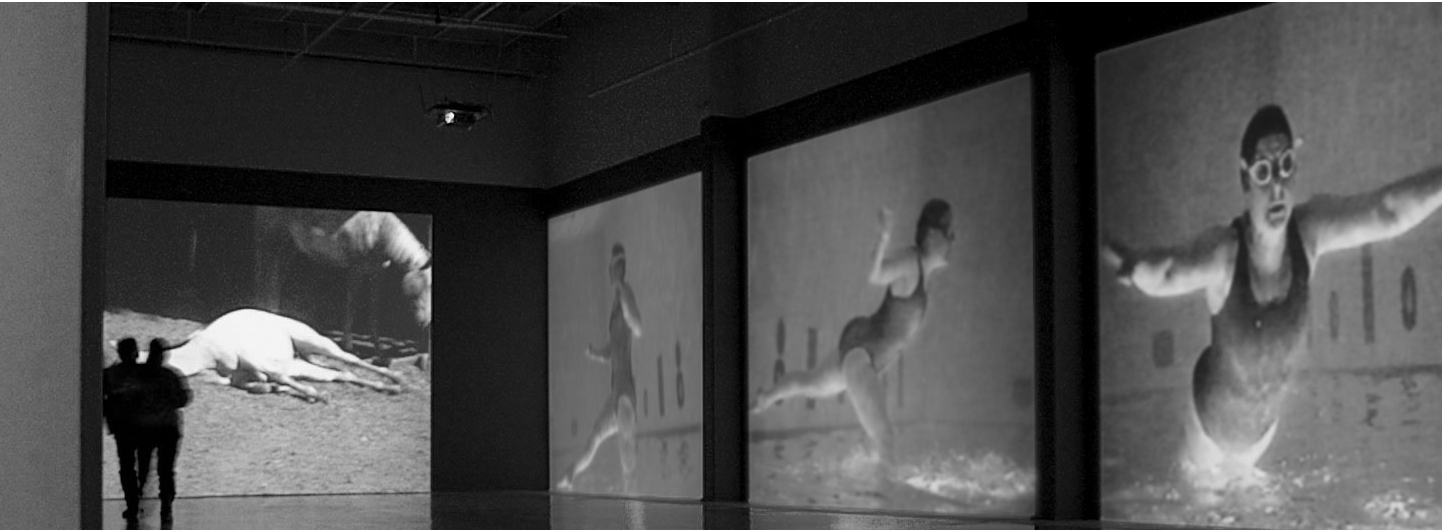
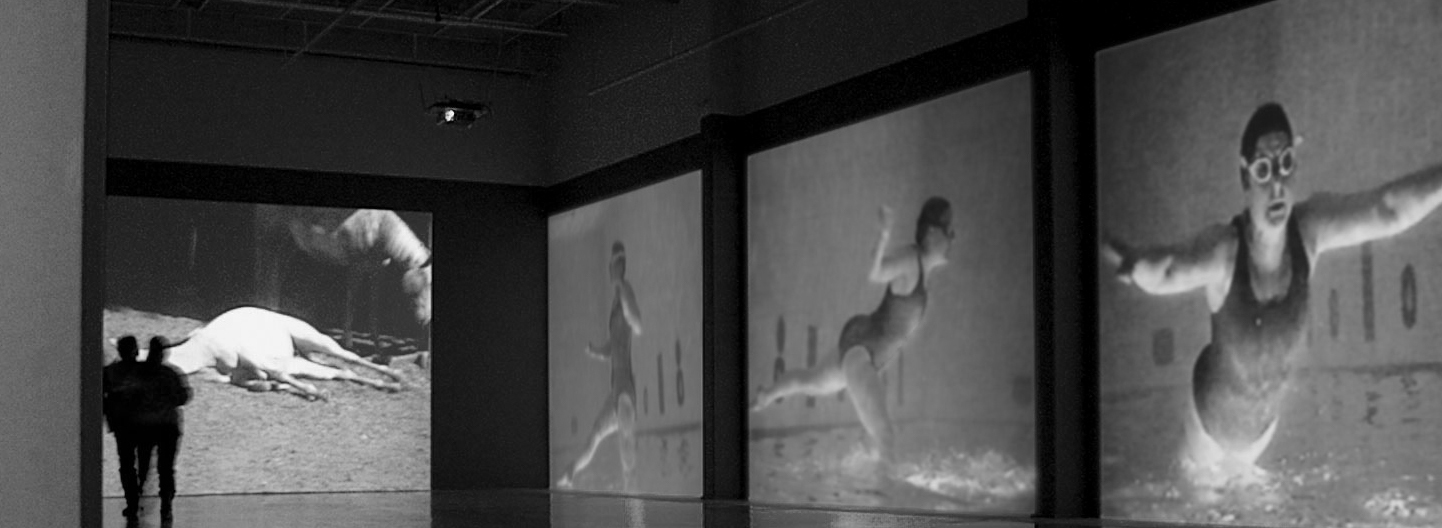
no bar

diff --git a/css/style.css b/css/style.css
@@ -43,6 +43,14 @@ background-image: ("/images/stadium3.jpg") center center;
   min-height: 75px;
   background-color: #333399;
   margin-top: -75px;
+  position: relative;
+}
+
+.artist-bar{
+  min-height: 75px;
+  background-color: #333399;
+  margin-top: 162px;
+  position: relative;
 }
 
 .transbox {
@@ -66,9 +74,9 @@ background-image: ("/images/stadium3.jpg") center center;
 }
 
 .transbox h1{
-  font-family: 'Open Sans', sans-serif;
+  font-family: 'Francois One', sans-serif;
   font-style: italic;
-  font-size: 65px;
+  font-size: 70px;
   text-align: center;
   margin-top: -5px;
   position: relative;

diff --git a/artists.html b/artists.html
@@ -22,6 +22,9 @@
     </div>
 
     <div class="container-fluid artist-background-image">
-      <img src="images/artist_image.png" width=1445px height=532px/>
+      <img src="images/artist_image.jpg" width=1445px height=532px/>
       <h1> MEET THE ARTISTS </h1>
+    </div>
+
+    <div class="artist-bar">
     </div>

diff --git a/index.html b/index.html
@@ -35,7 +35,7 @@
               </div>
             </div>
         </div>
-      <img src="images/stadium.png" width=1442px height=532px/>
+      <img src="images/stadium.jpg" width=1442px height=532px/>
     </div>
 
     <div class="bar">
